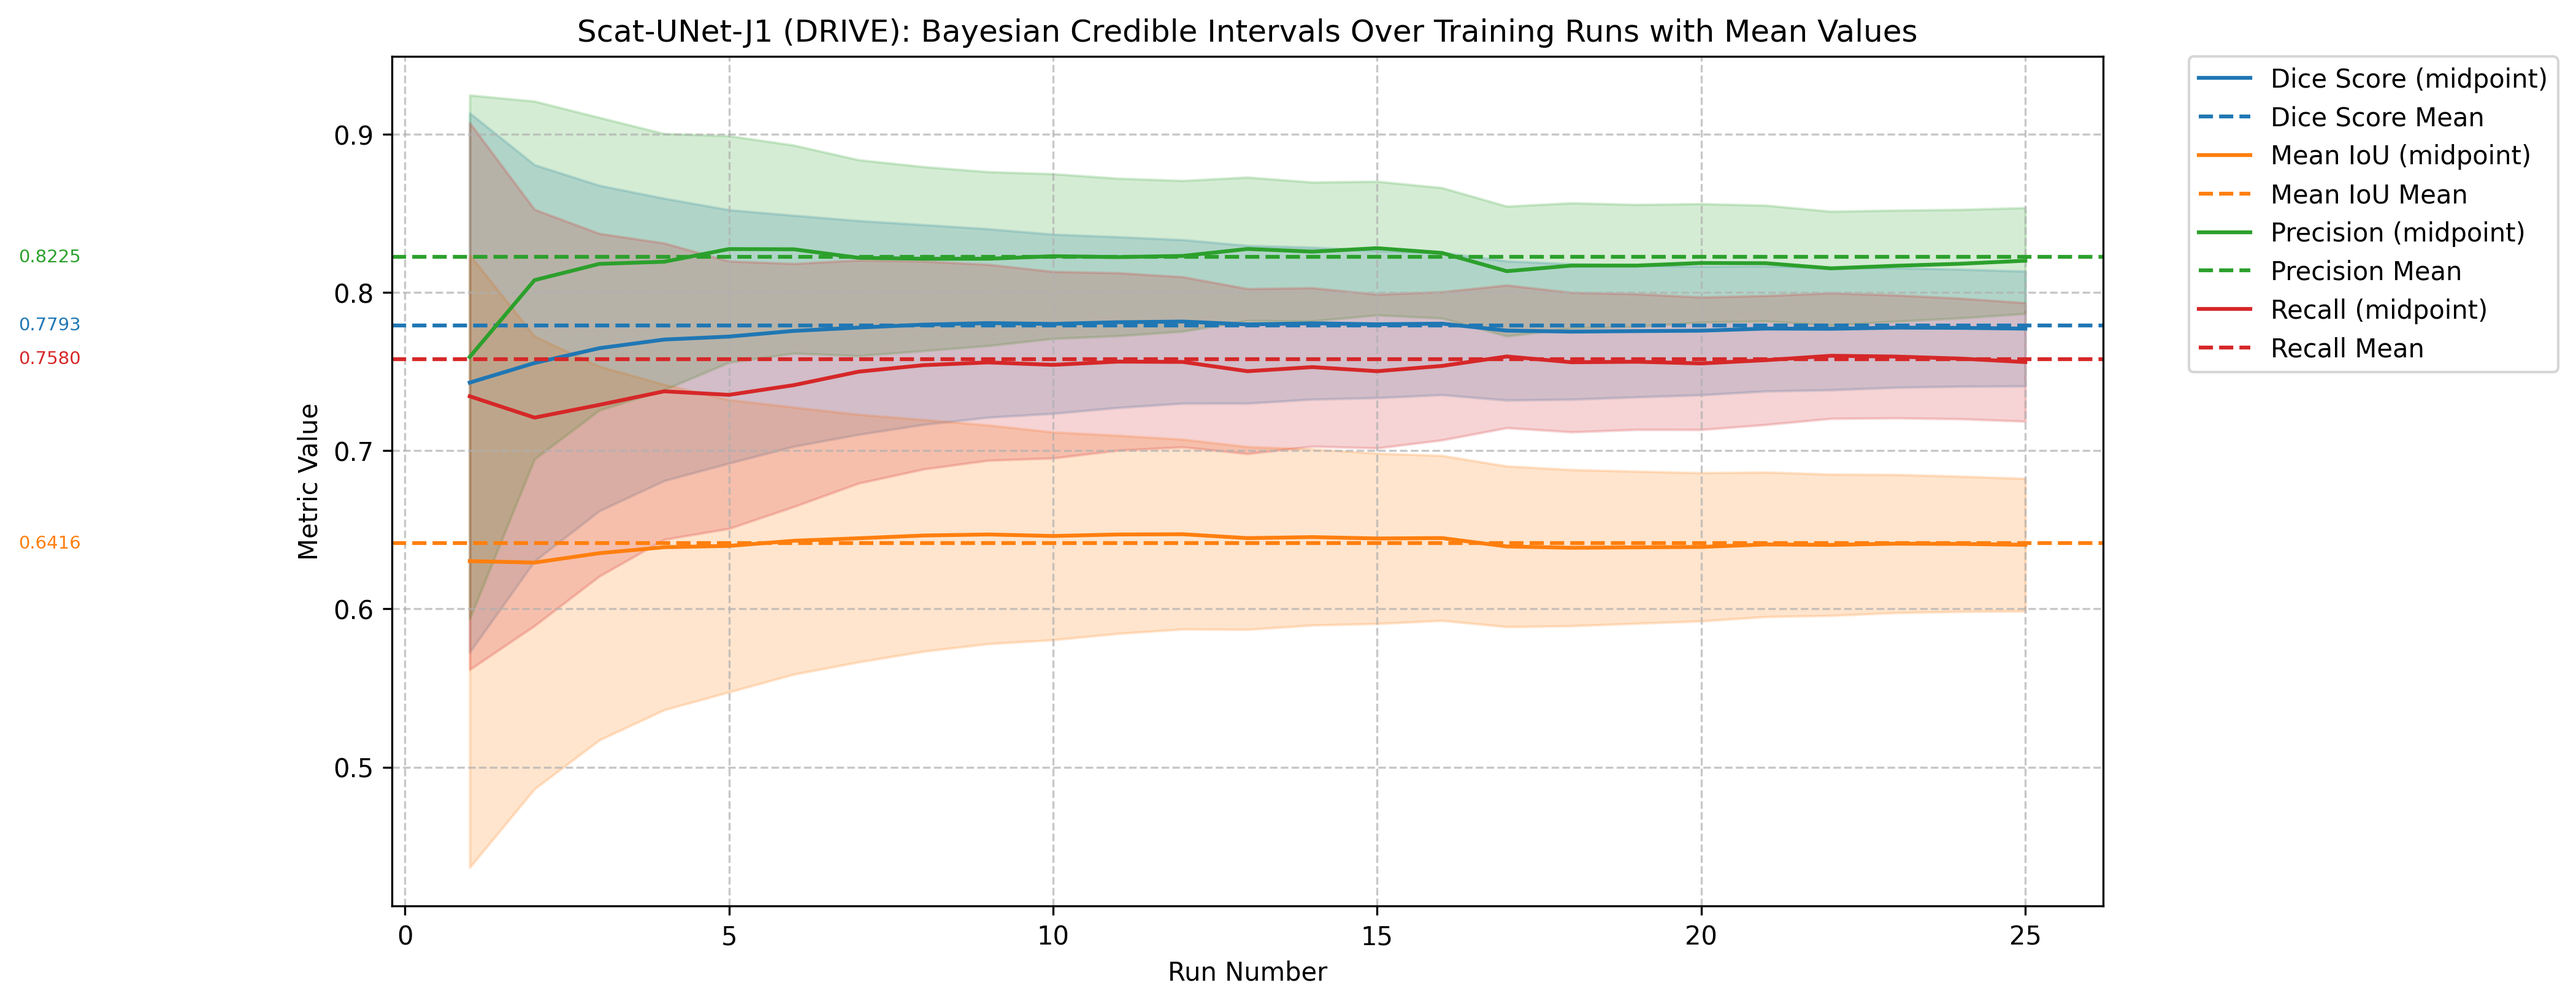
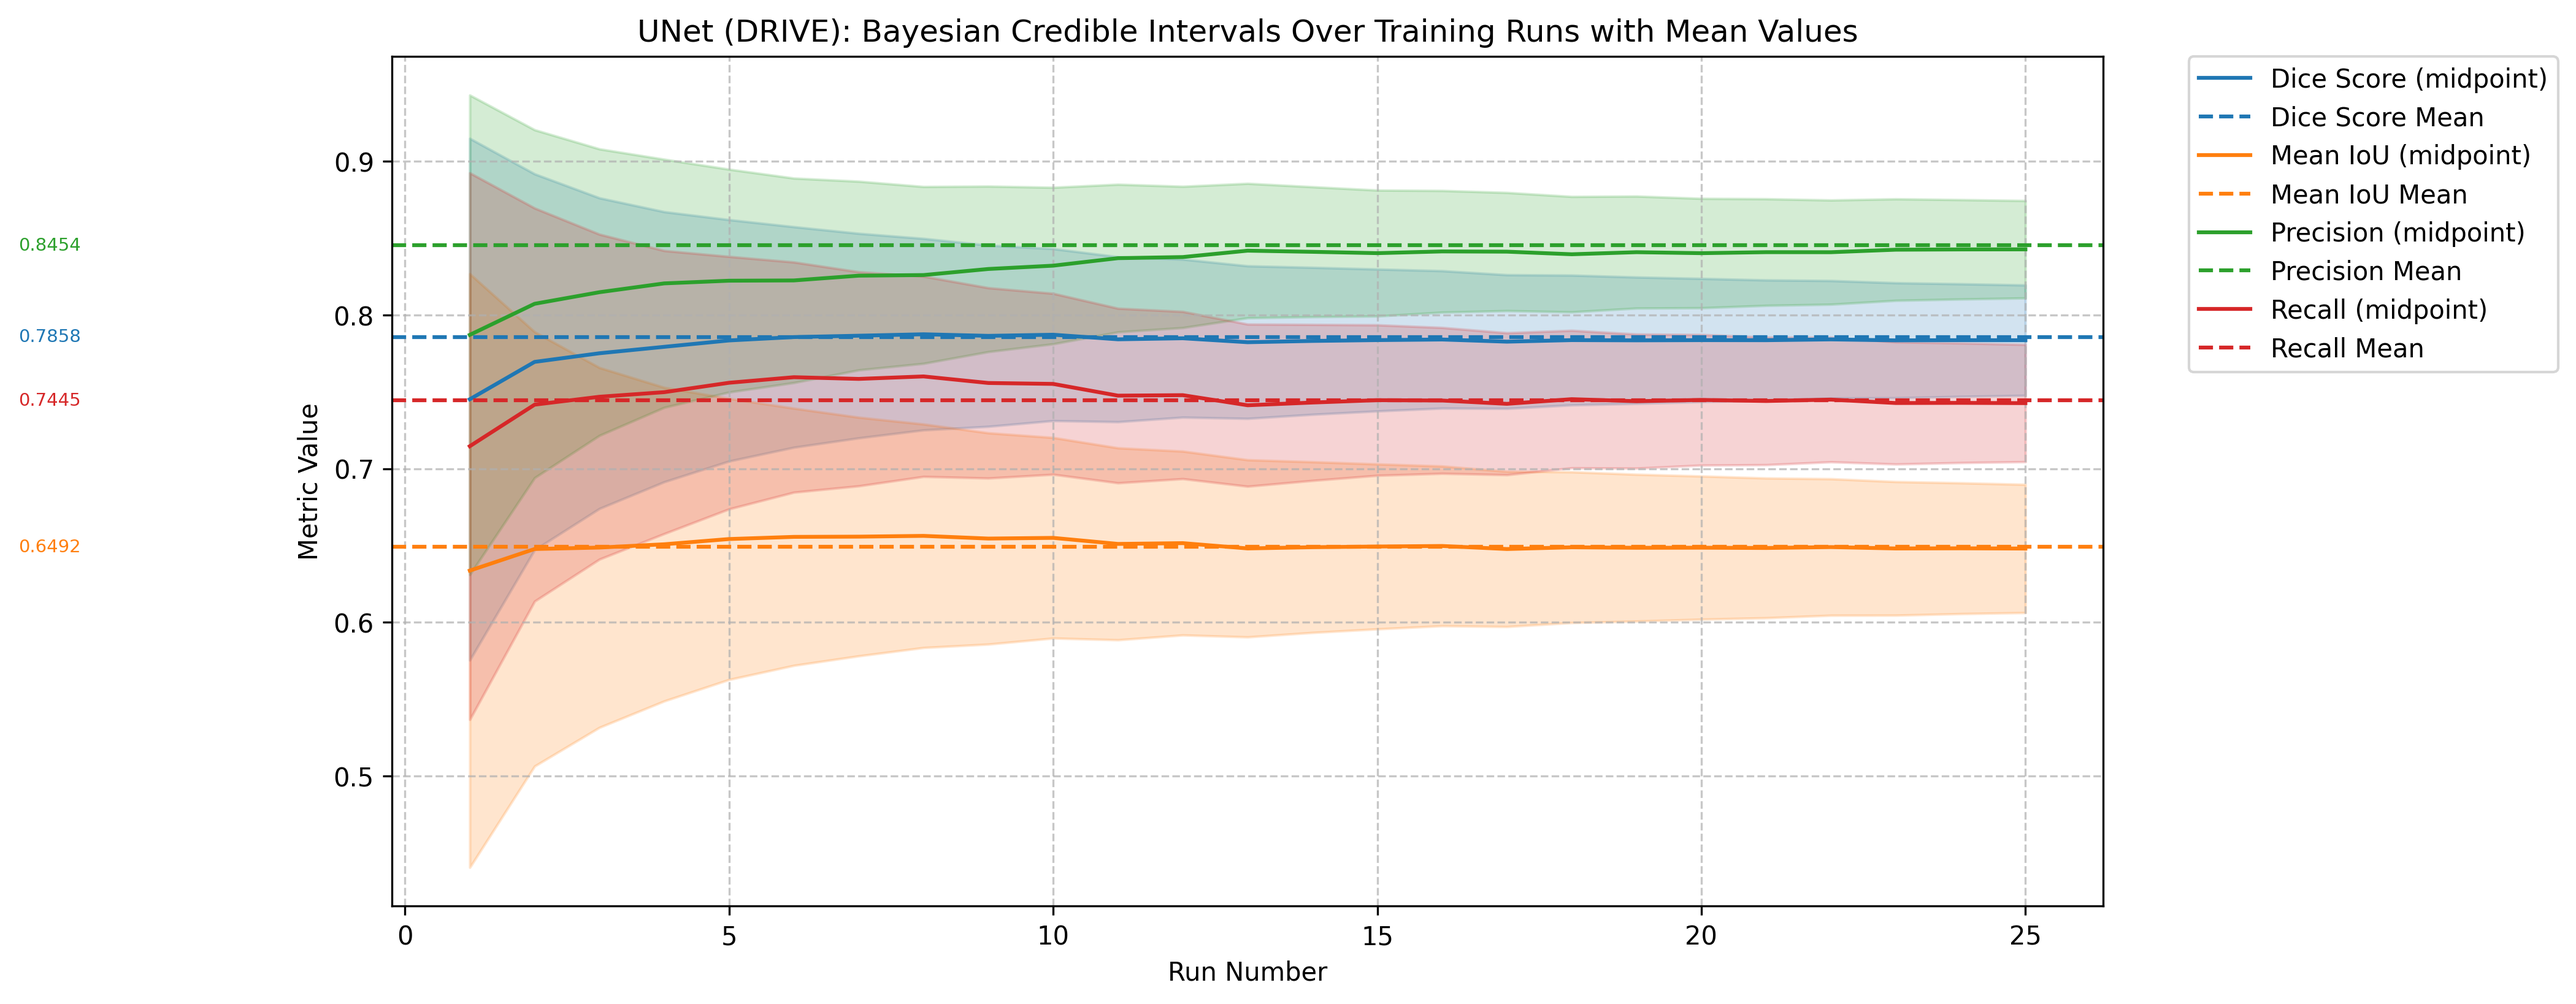
DRIVE UNet results

diff --git a/analyse_results.py b/analyse_results.py
@@ -4,7 +4,7 @@ import matplotlib.pyplot as plt
 import seaborn as sns
 
 # File path
-file_path = "DRIVE_Scat-UNet-J1.txt"
+file_path = "DRIVE_training_results_UNet.txt"
 
 # Updated regex pattern to extract the two dictionaries
 dict_pattern = re.compile(r"Run \d+: (\{.*?\}), Credible Intervals: (\{.*?\})")
@@ -66,7 +66,7 @@ def plot_boxplots(metrics, filename="boxplot.png"):
     sns.boxplot(data=[metrics[key] for key in metrics.keys()])
     plt.xticks(ticks=range(len(metrics.keys())), labels=list(metrics.keys()), rotation=20)
     plt.ylabel("Metric Values")
-    plt.title("Scat-UNet-J1 (DRIVE): Boxplots of Metrics")
+    plt.title("UNet (DRIVE): Boxplots of Metrics")
     plt.grid(axis="y", linestyle="--", alpha=0.7)
     # Save the figure
     plt.savefig(filename, bbox_inches="tight", dpi=300)
@@ -121,7 +121,7 @@ def plot_credible_intervals(runs, filename="credible_intervals.png"):
 
     plt.xlabel("Run Number")
     plt.ylabel("Metric Value")
-    plt.title("Scat-UNet-J1 (DRIVE): Bayesian Credible Intervals Over Training Runs with Mean Values")
+    plt.title("UNet (DRIVE): Bayesian Credible Intervals Over Training Runs with Mean Values")
     plt.legend(loc='upper left', bbox_to_anchor=(1.05, 1), borderaxespad=0.)
     plt.grid(True, linestyle="--", alpha=0.7)
     plt.savefig(filename, bbox_inches="tight", dpi=300)
